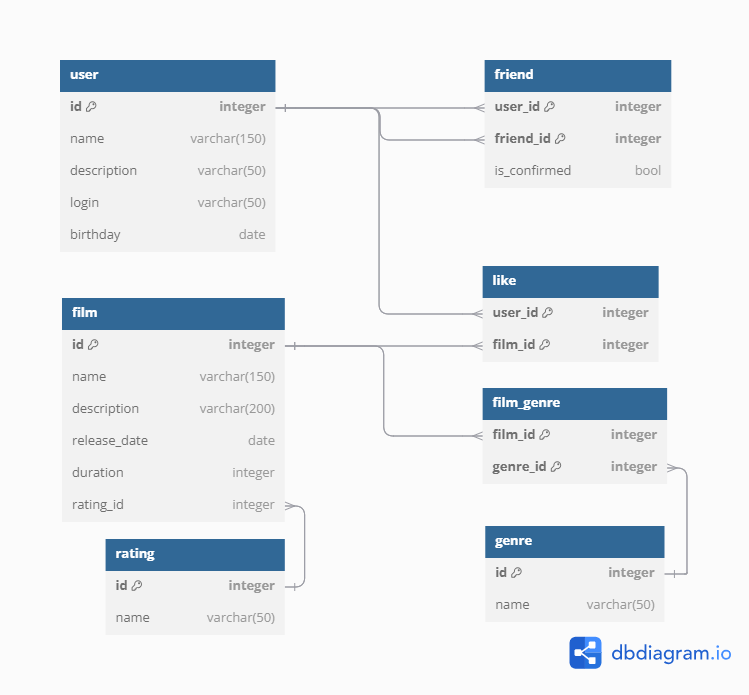
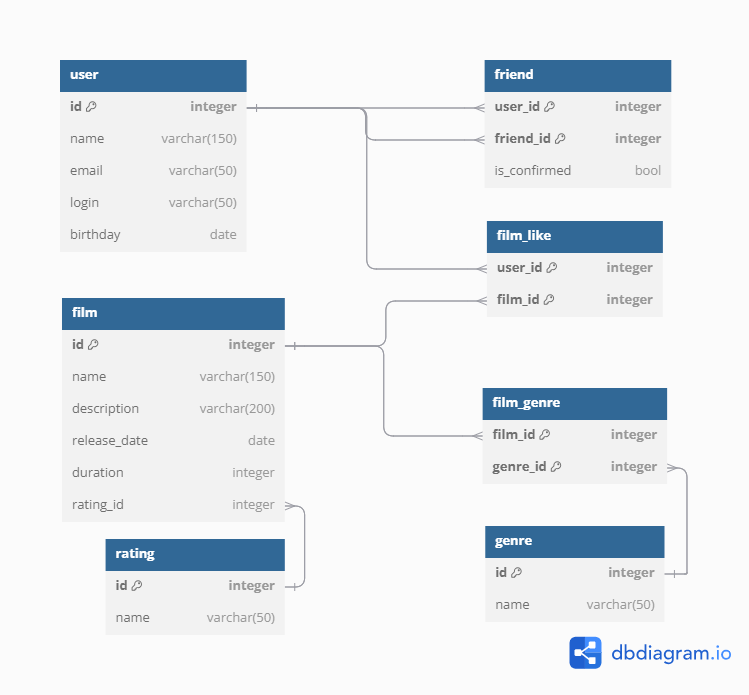
bd diagram, readme

diff --git a/README.md b/README.md
@@ -1,15 +1,64 @@
 # java-filmorate
 ## Схема базы данных
 ![Схема базы данных](/src/main/resources/bd_diagram.png)
+## Описание таблиц
+### Таблица user
+В данной таблице хранится основная информация о пользователях.
+### Таблица film
+В данной таблице хранится основная информация о фильмах.
+### Таблица friend
+В данной таблице хранится информация о друзьях пользователей.
+Запись
+
+| user_id | friend_id | is_confirmed |
+|---------|-----------|--------------|
+| 1       | 2         | true         | 
+
+означает, что пользовтаель с id=1, отправил запрос на добавление в друзья
+пользователю с id=2, и пользователь с id=2 её принял.
+### Таблица film_like
+В данной таблице хранится информация о лайках, поставленных пользователями фильмам.
+
+Запись
+
+| user_id | film_id |
+|---------|---------|
+| 1       | 2       |
+
+означает, что пользовтаелю с id=1, понравилься фильм с id=2.
+
+### Таблица genre
+В данной таблице хранится информация о жанрах.
+
+### Таблица film_genre
+В данной таблице хранится информация о связи фильиов и жанров. 
+Один фильм может быть отнесен к нескольким жанрам.
+
+### Таблица rating
+В данной таблице хранится информация о рейтингах, которые могут быть поставлены фильмам. 
+Фильму может назначаться только один рейтинг.
+
 ## Примеры запросов
-### Выбор данных фильма по идентификатору
+
+### Выбор общей информации по всем фильмам
+
+``` SQL
+SELECT film.name name, description, release_date, duration, rating.name rating
+FROM film
+LEFT JOIN rating ON film.rating_id = rating.id
+```
+
+### Выбор общей информации фильма по идентификатору
+
 ``` SQL
 SELECT film.name name, description, release_date, duration, rating.name rating
 FROM film
 LEFT JOIN rating ON film.rating_id = rating.id
 WHERE film.id = 1
 ```
+
 ### Выбор данных 10 самых популярных фильмов, основываясь на количество лайков
+
 ``` sql
 SELECT
 	film.name name,
@@ -25,7 +74,7 @@ INNER JOIN (
 		film_id,
 		count(user_id) likes
 	FROM
-		user_like
+		film_like
 	GROUP BY
 		film_id
 	ORDER BY
@@ -38,7 +87,39 @@ LEFT JOIN rating ON
 ORDER BY
 	top_likes.likes desc
 ```
+
+### Выбор общей информации по всем пользователям
+
+``` sql
+SELECT id, name, email, login, birthday
+FROM "user"
+```
+
+### Выбор общей информации пользователя по идентификатору
+
+``` sql
+SELECT id, name, email, login, birthday
+FROM "user"
+WHERE id = 1
+```
+
+### Выбор общей информации друзей пользователя
+
+``` sql
+SELECT name, email, login, birthday
+FROM "user" AS u 
+INNER JOIN (
+	SELECT
+		friend_id 
+	FROM
+		friend
+	WHERE
+		user_id = 1 AND is_confirmed ) AS user_friend
+		ON user_friend.friend_id = u.id
+```
+
 ### Выбор общих друзей для двух пользователей
+
 ``` sql
 SELECT
 	friend_user_1.friend_id
